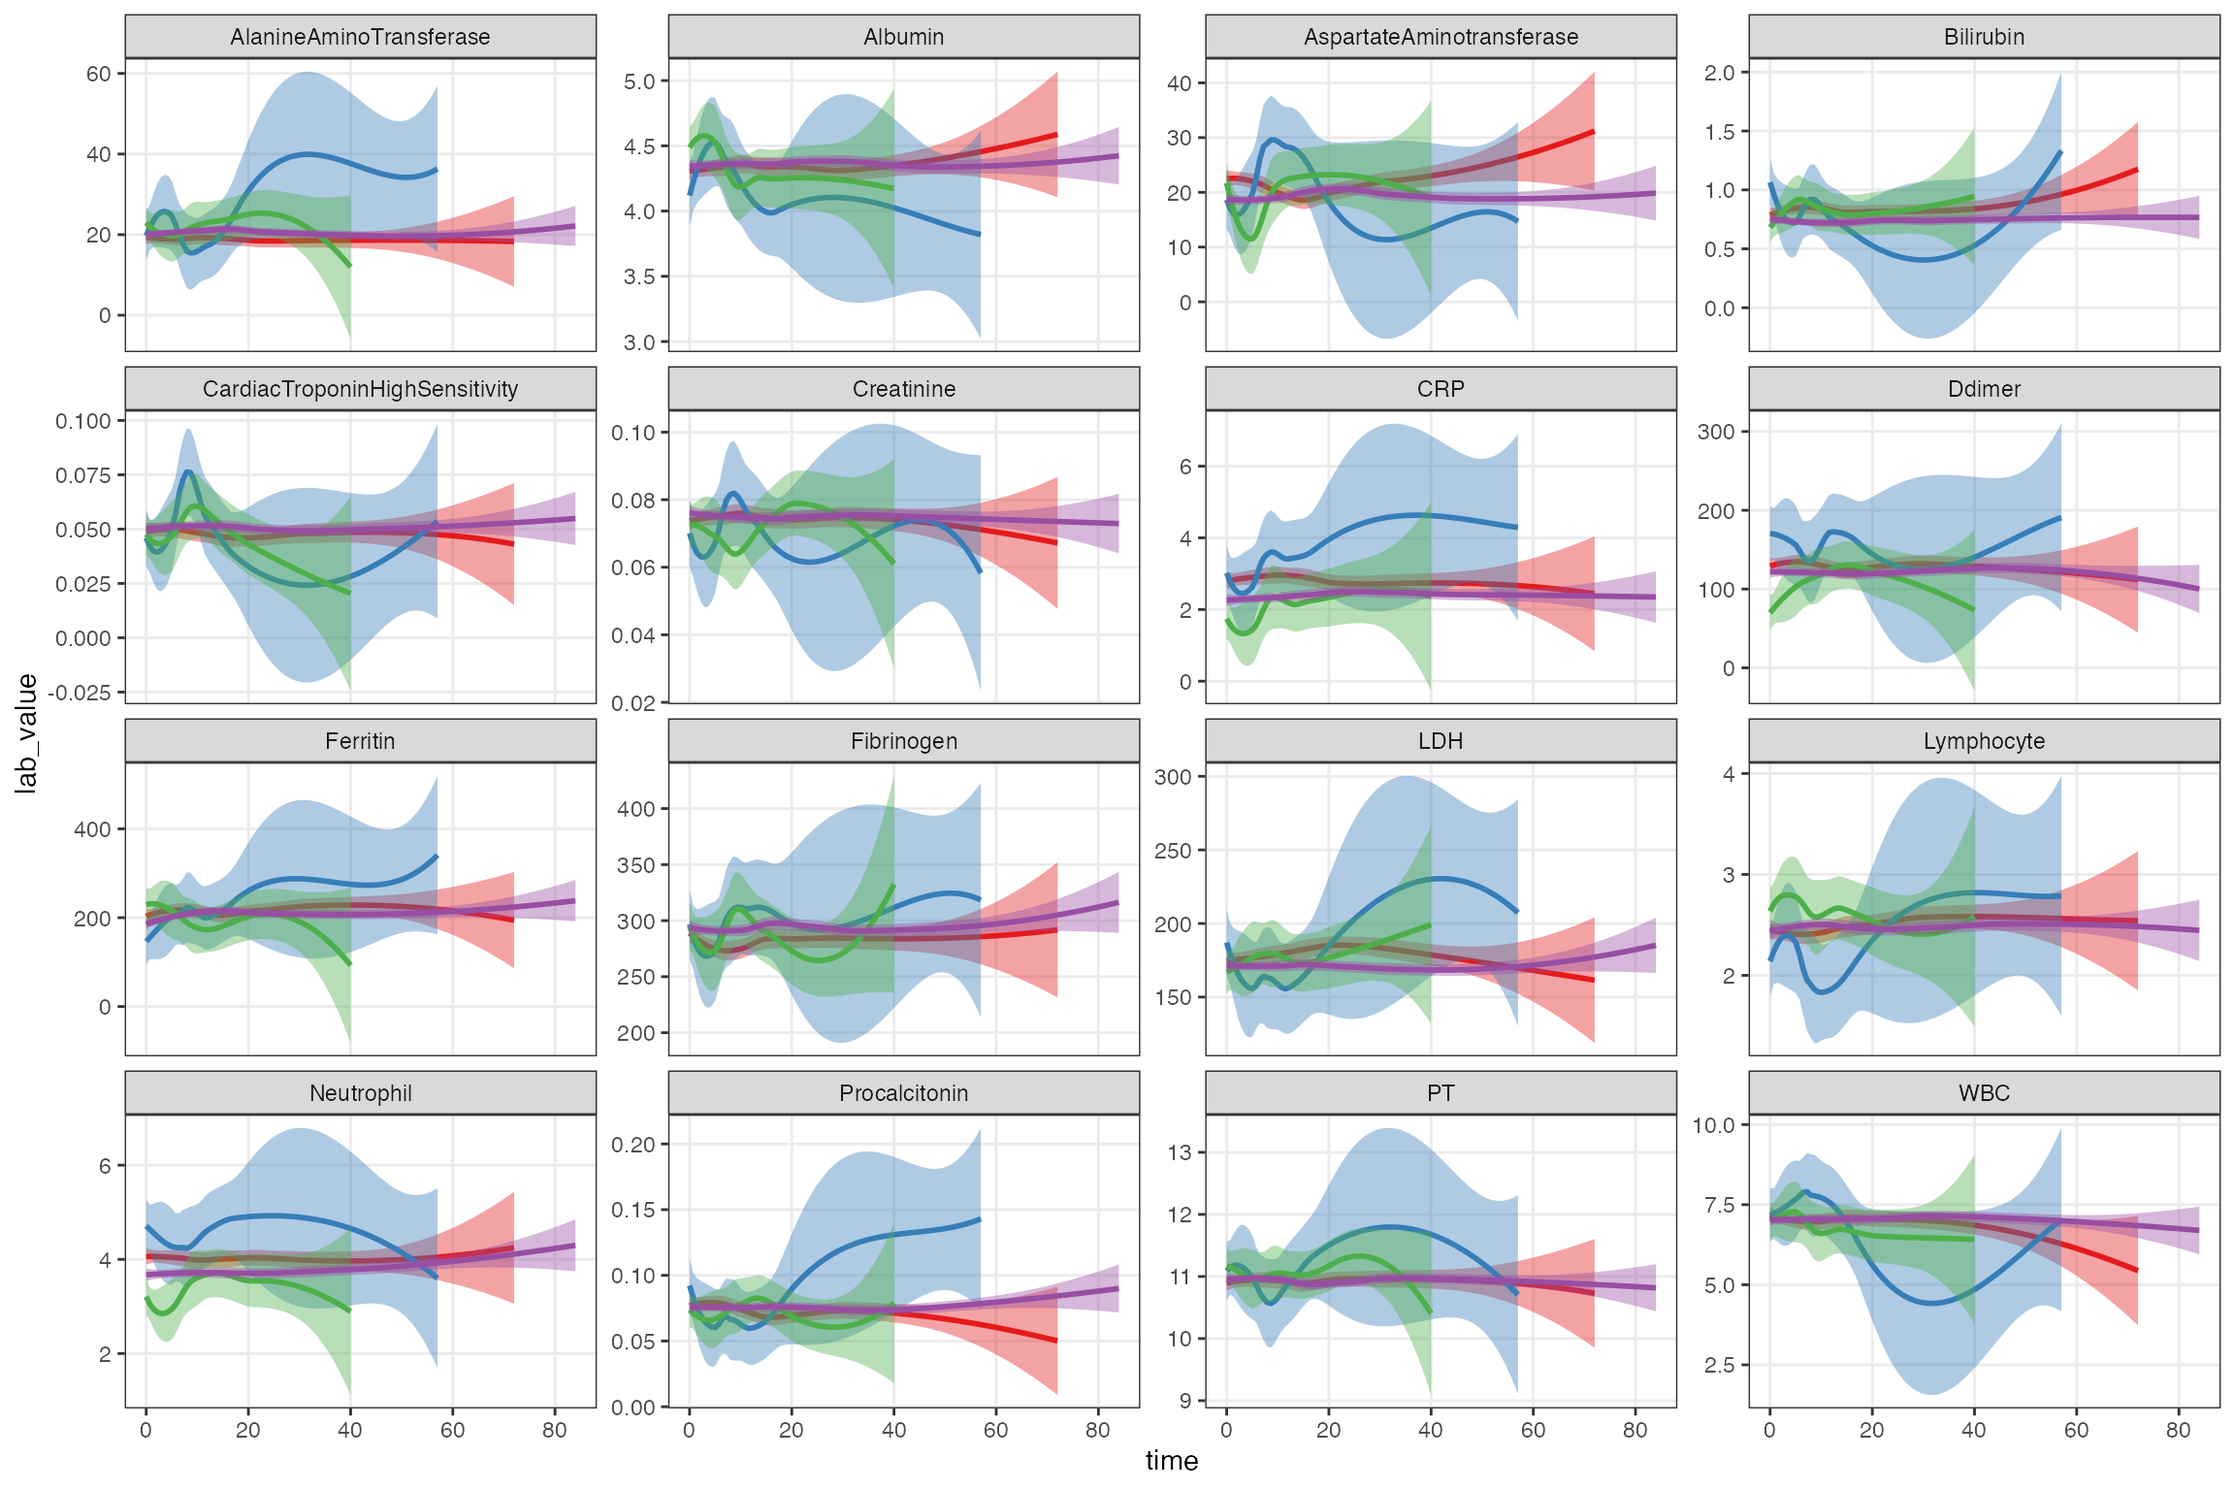
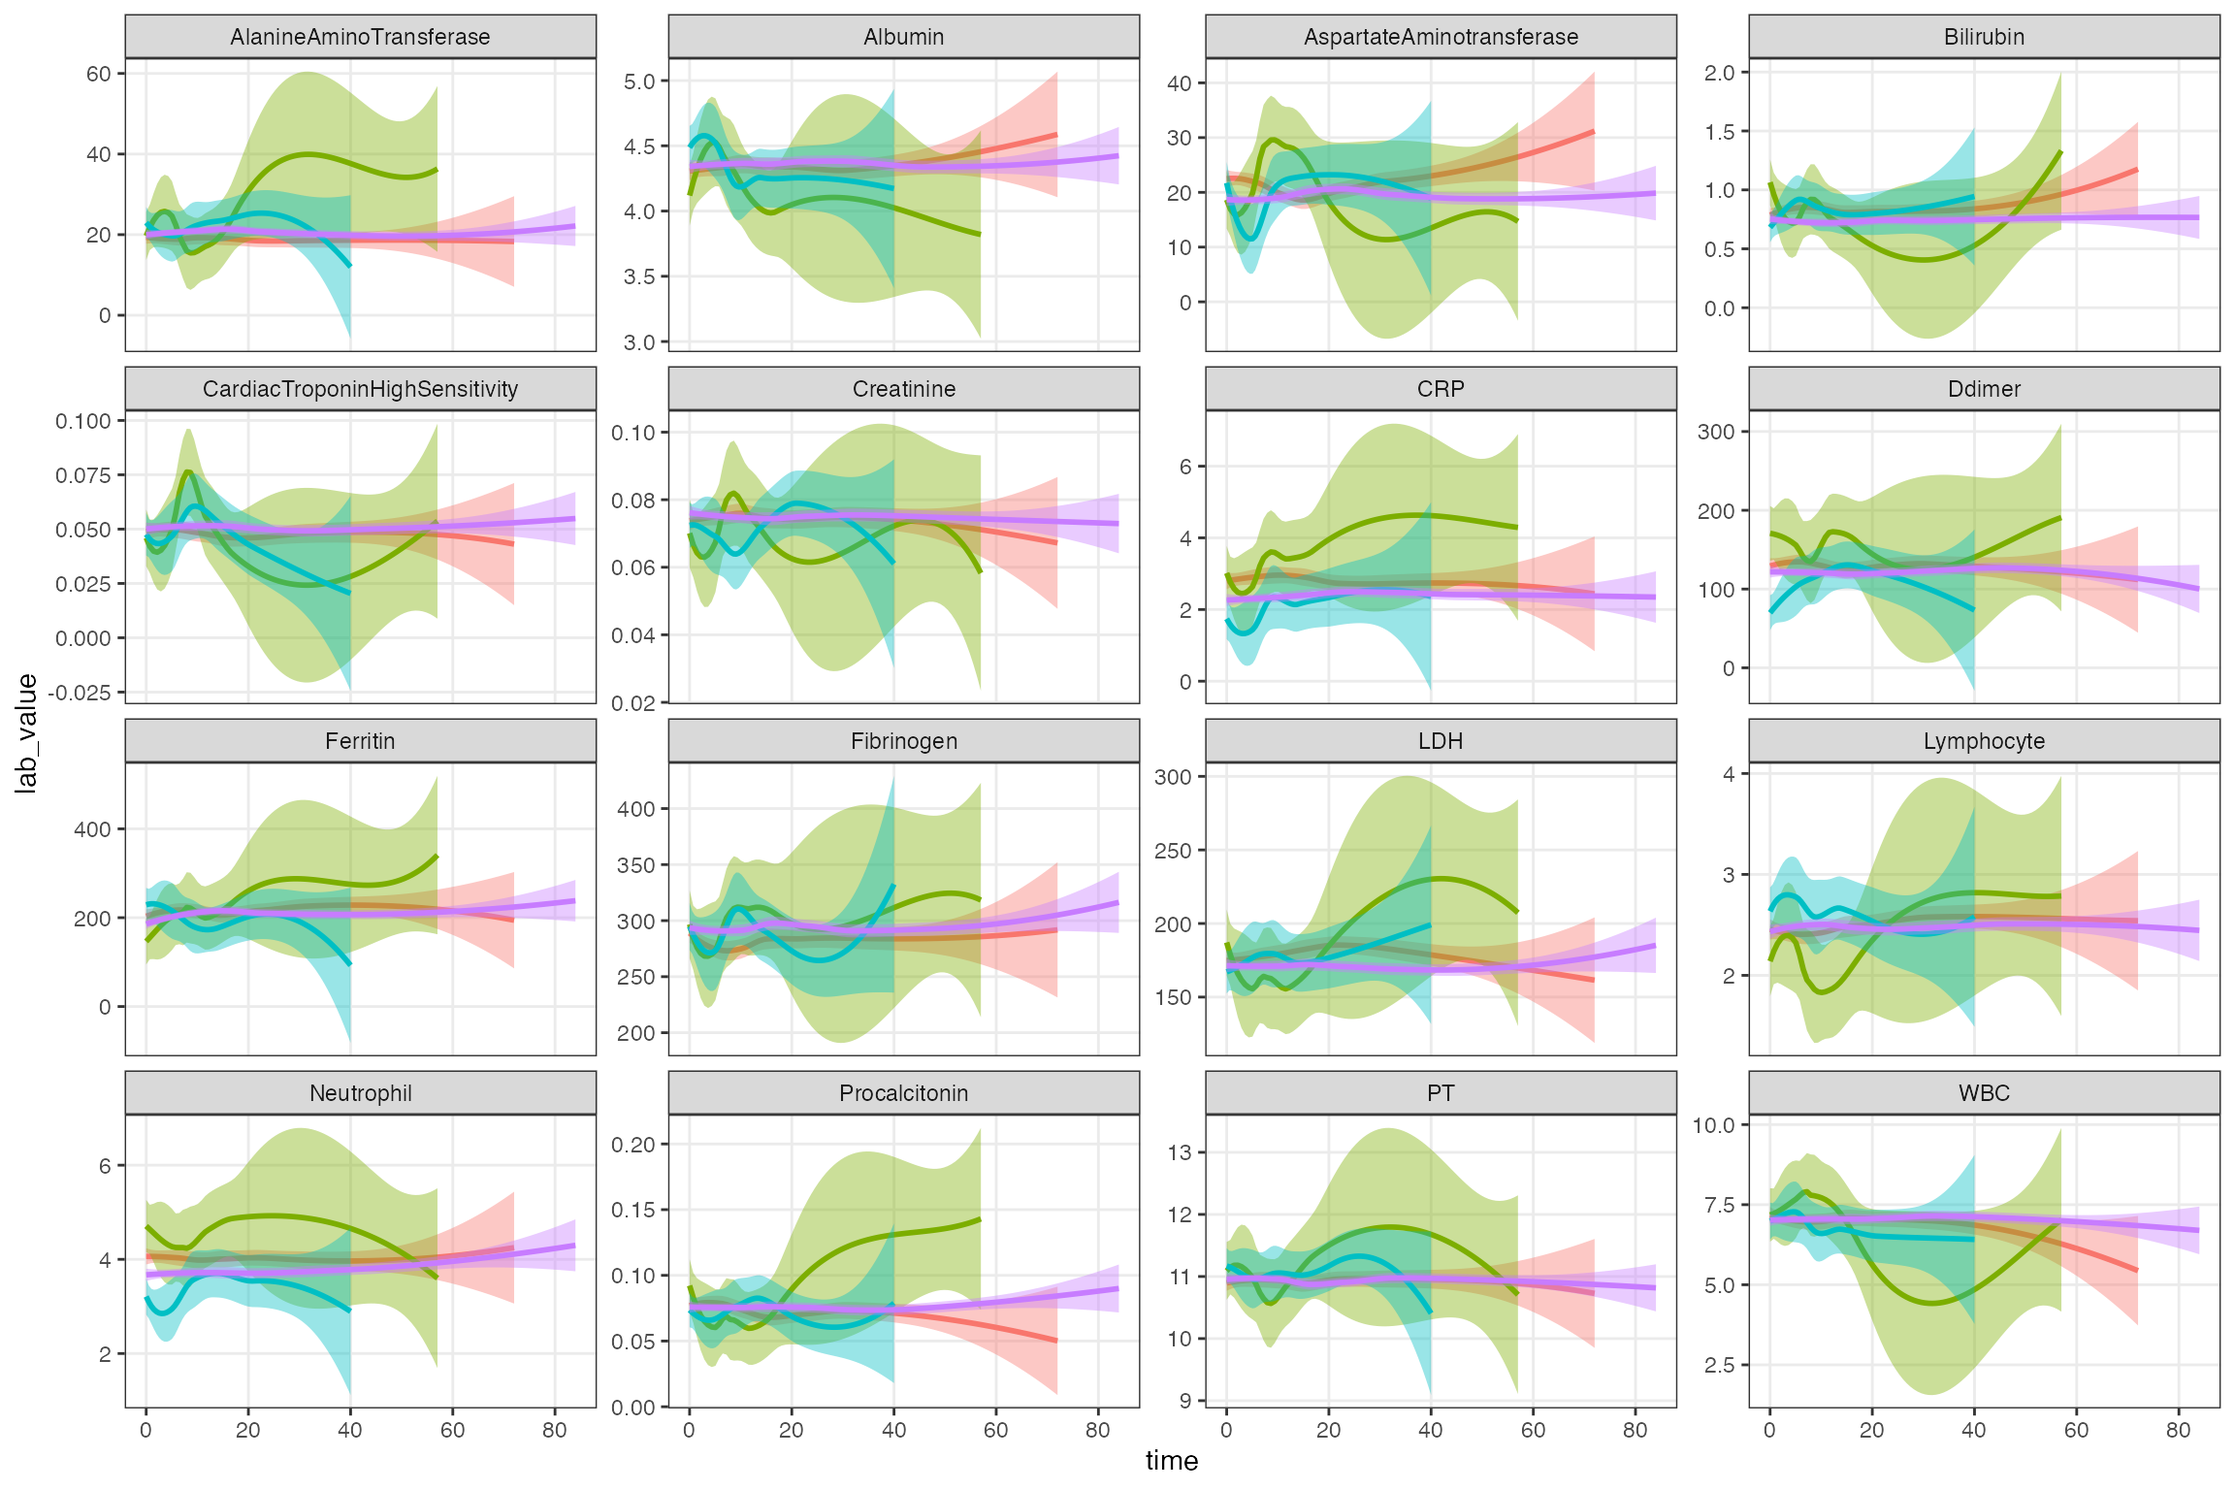
Built site for tdapseudotime: 0.1.0@fbd391a

diff --git a/articles/train.html b/articles/train.html
@@ -259,25 +259,11 @@
 <pre><code>## 
 ##     1&gt;2       2   3&gt;4&gt;2 4&gt;3&gt;4&gt;2 
 ##     184      17      36     311</code></pre>
-<div class="sourceCode" id="cb16"><pre class="downlit">
-<span class="va">check</span> <span class="op">=</span> <span class="va">data_out</span> <span class="op">%&gt;%</span> 
-  <span class="fu"><a href="https://dplyr.tidyverse.org/reference/filter.html">filter</a></span><span class="op">(</span><span class="va">clusterTraj</span> <span class="op">==</span> <span class="st">'3&gt;4&gt;2'</span><span class="op">)</span> <span class="op">%&gt;%</span> 
-  <span class="fu"><a href="https://dplyr.tidyverse.org/reference/pull.html">pull</a></span><span class="op">(</span><span class="va">covid_id</span><span class="op">)</span>
-
-<span class="va">check2</span> <span class="op">=</span> <span class="va">processed_data</span> <span class="op">%&gt;%</span> 
-<span class="fu"><a href="https://dplyr.tidyverse.org/reference/filter.html">filter</a></span><span class="op">(</span><span class="va">covid_id</span> <span class="op">%in%</span> <span class="va">check</span><span class="op">)</span> <span class="op">%&gt;%</span> 
-<span class="fu"><a href="https://dplyr.tidyverse.org/reference/count.html">count</a></span><span class="op">(</span><span class="va">covid_id</span><span class="op">)</span> <span class="op">%&gt;%</span> 
-<span class="fu"><a href="https://dplyr.tidyverse.org/reference/pull.html">pull</a></span><span class="op">(</span><span class="va">n</span><span class="op">)</span>
-
-<span class="fu"><a href="https://rdrr.io/r/base/table.html">table</a></span><span class="op">(</span><span class="va">check2</span><span class="op">)</span></pre></div>
-<pre><code>## check2
-##  1  2  3  4  5  6 
-## 10 10  9  4  2  1</code></pre>
 </div>
 <div id="visualizations" class="section level2">
 <h2 class="hasAnchor">
 <a href="#visualizations" class="anchor"></a>Visualizations</h2>
-<div class="sourceCode" id="cb18"><pre class="downlit">
+<div class="sourceCode" id="cb16"><pre class="downlit">
 <span class="va">plot_dat</span> <span class="op">&lt;-</span> <span class="va">processed_data</span> <span class="op">%&gt;%</span> 
   <span class="fu"><a href="https://dplyr.tidyverse.org/reference/mutate-joins.html">left_join</a></span><span class="op">(</span><span class="va">id_node_cluster</span> <span class="op">%&gt;%</span> <span class="fu"><a href="https://dplyr.tidyverse.org/reference/distinct.html">distinct</a></span><span class="op">(</span><span class="va">covid_id</span>, <span class="va">id</span>, <span class="va">cluster</span><span class="op">)</span>, 
             by <span class="op">=</span> <span class="fu"><a href="https://rdrr.io/r/base/c.html">c</a></span><span class="op">(</span><span class="st">'id'</span>, <span class="st">'covid_id'</span><span class="op">)</span><span class="op">)</span>
@@ -290,7 +276,7 @@
   <span class="fu"><a href="https://ggplot2.tidyverse.org/reference/theme.html">theme</a></span><span class="op">(</span>legend.position <span class="op">=</span> <span class="st">"none"</span>,
         plot.title <span class="op">=</span> <span class="fu"><a href="https://ggplot2.tidyverse.org/reference/element.html">element_text</a></span><span class="op">(</span>size <span class="op">=</span> <span class="fl">8</span>, hjust <span class="op">=</span> <span class="fl">0.5</span><span class="op">)</span><span class="op">)</span></pre></div>
 <p><img src="train_files/figure-html/unnamed-chunk-11-1.png" width="700"></p>
-<div class="sourceCode" id="cb19"><pre class="downlit">
+<div class="sourceCode" id="cb17"><pre class="downlit">
 <span class="va">plot_dat</span> <span class="op">%&gt;%</span> 
   <span class="fu"><a href="https://dplyr.tidyverse.org/reference/select.html">select</a></span><span class="op">(</span><span class="va">cluster</span>, <span class="fu"><a href="https://tidyselect.r-lib.org/reference/all_of.html">all_of</a></span><span class="op">(</span><span class="va">lab_value_names</span><span class="op">)</span><span class="op">)</span> <span class="op">%&gt;%</span> 
   <span class="fu"><a href="https://tidyr.tidyverse.org/reference/pivot_longer.html">pivot_longer</a></span><span class="op">(</span><span class="op">-</span> <span class="va">cluster</span>, names_to <span class="op">=</span> <span class="st">'Lab'</span>, values_to <span class="op">=</span> <span class="st">'lab_value'</span><span class="op">)</span> <span class="op">%&gt;%</span> 
@@ -302,20 +288,18 @@
   <span class="fu"><a href="https://ggplot2.tidyverse.org/reference/theme.html">theme</a></span><span class="op">(</span>legend.position <span class="op">=</span> <span class="st">"none"</span><span class="op">)</span> <span class="op">+</span>
   <span class="fu"><a href="https://ggplot2.tidyverse.org/reference/facet_wrap.html">facet_wrap</a></span><span class="op">(</span><span class="op">~</span> <span class="va">Lab</span>, scales <span class="op">=</span> <span class="st">'free_y'</span><span class="op">)</span></pre></div>
 <p><img src="train_files/figure-html/unnamed-chunk-11-2.png" width="700"></p>
-<div class="sourceCode" id="cb20"><pre class="downlit">
+<div class="sourceCode" id="cb18"><pre class="downlit">
 <span class="va">processed_data_traj</span> <span class="op">&lt;-</span> <span class="va">processed_data</span> <span class="op">%&gt;%</span> 
   <span class="fu"><a href="https://dplyr.tidyverse.org/reference/mutate-joins.html">left_join</a></span><span class="op">(</span><span class="va">most_similar_traj</span>, by <span class="op">=</span> <span class="fu"><a href="https://rdrr.io/r/base/c.html">c</a></span><span class="op">(</span><span class="st">"covid_id"</span><span class="op">)</span><span class="op">)</span> <span class="op">%&gt;%</span> 
   <span class="fu"><a href="https://dplyr.tidyverse.org/reference/mutate.html">mutate</a></span><span class="op">(</span>clusterTraj <span class="op">=</span> <span class="fu"><a href="https://rdrr.io/r/base/factor.html">as.factor</a></span><span class="op">(</span><span class="va">clusterTraj</span><span class="op">)</span>, <span class="va">time</span><span class="op">)</span> <span class="op">%&gt;%</span>
   <span class="fu"><a href="https://dplyr.tidyverse.org/reference/select.html">select</a></span><span class="op">(</span><span class="va">time</span>, <span class="va">clusterTraj</span>, <span class="fu"><a href="https://tidyselect.r-lib.org/reference/all_of.html">all_of</a></span><span class="op">(</span><span class="va">lab_value_names</span><span class="op">)</span><span class="op">)</span> <span class="op">%&gt;%</span> 
   <span class="fu"><a href="https://dplyr.tidyverse.org/reference/distinct.html">distinct</a></span><span class="op">(</span><span class="op">)</span></pre></div>
-<div class="sourceCode" id="cb21"><pre class="downlit">
+<div class="sourceCode" id="cb19"><pre class="downlit">
 <span class="va">processed_data_traj</span>  <span class="op">%&gt;%</span> 
   <span class="fu"><a href="https://tidyr.tidyverse.org/reference/pivot_longer.html">pivot_longer</a></span><span class="op">(</span><span class="op">-</span> <span class="fu"><a href="https://rdrr.io/r/base/c.html">c</a></span><span class="op">(</span><span class="va">time</span>, <span class="va">clusterTraj</span><span class="op">)</span>, 
                names_to <span class="op">=</span> <span class="st">'Lab'</span>, values_to <span class="op">=</span> <span class="st">'lab_value'</span><span class="op">)</span> <span class="op">%&gt;%</span> 
   <span class="fu"><a href="https://ggplot2.tidyverse.org/reference/ggplot.html">ggplot</a></span><span class="op">(</span><span class="fu"><a href="https://ggplot2.tidyverse.org/reference/aes.html">aes</a></span><span class="op">(</span><span class="va">time</span>, <span class="va">lab_value</span>, colour <span class="op">=</span> <span class="va">clusterTraj</span>, 
              group <span class="op">=</span> <span class="va">clusterTraj</span>, fill <span class="op">=</span> <span class="va">clusterTraj</span><span class="op">)</span><span class="op">)</span> <span class="op">+</span>
-  <span class="fu"><a href="https://ggplot2.tidyverse.org/reference/scale_manual.html">scale_fill_manual</a></span><span class="op">(</span>values <span class="op">=</span> <span class="va">f_graph</span><span class="op">$</span><span class="va">pal</span><span class="op">$</span><span class="va">color</span><span class="op">)</span> <span class="op">+</span> 
-  <span class="fu"><a href="https://ggplot2.tidyverse.org/reference/scale_manual.html">scale_color_manual</a></span><span class="op">(</span>values <span class="op">=</span> <span class="va">f_graph</span><span class="op">$</span><span class="va">pal</span><span class="op">$</span><span class="va">color</span><span class="op">)</span> <span class="op">+</span> 
   <span class="fu"><a href="https://ggplot2.tidyverse.org/reference/geom_smooth.html">geom_smooth</a></span><span class="op">(</span>method <span class="op">=</span> <span class="st">"loess"</span><span class="op">)</span> <span class="op">+</span>
   <span class="fu"><a href="https://ggplot2.tidyverse.org/reference/theme.html">theme</a></span><span class="op">(</span>legend.position <span class="op">=</span> <span class="st">"none"</span><span class="op">)</span> <span class="op">+</span>
   <span class="fu"><a href="https://ggplot2.tidyverse.org/reference/facet_wrap.html">facet_wrap</a></span><span class="op">(</span><span class="op">~</span> <span class="va">Lab</span>, scales <span class="op">=</span> <span class="st">'free_y'</span><span class="op">)</span></pre></div>

diff --git a/articles/test.html b/articles/test.html
@@ -238,8 +238,6 @@
                names_to <span class="op">=</span> <span class="st">'Lab'</span>, values_to <span class="op">=</span> <span class="st">'lab_value'</span><span class="op">)</span> <span class="op">%&gt;%</span> 
   <span class="fu"><a href="https://ggplot2.tidyverse.org/reference/ggplot.html">ggplot</a></span><span class="op">(</span><span class="fu"><a href="https://ggplot2.tidyverse.org/reference/aes.html">aes</a></span><span class="op">(</span><span class="va">time</span>, <span class="va">lab_value</span>, colour <span class="op">=</span> <span class="va">clusterTraj</span>, 
              group <span class="op">=</span> <span class="va">clusterTraj</span>, fill <span class="op">=</span> <span class="va">clusterTraj</span><span class="op">)</span><span class="op">)</span> <span class="op">+</span>
-  <span class="fu"><a href="https://ggplot2.tidyverse.org/reference/scale_manual.html">scale_fill_manual</a></span><span class="op">(</span>values <span class="op">=</span> <span class="va">clust_colors</span><span class="op">)</span> <span class="op">+</span> 
-  <span class="fu"><a href="https://ggplot2.tidyverse.org/reference/scale_manual.html">scale_color_manual</a></span><span class="op">(</span>values <span class="op">=</span> <span class="va">clust_colors</span><span class="op">)</span> <span class="op">+</span> 
   <span class="fu"><a href="https://ggplot2.tidyverse.org/reference/geom_smooth.html">geom_smooth</a></span><span class="op">(</span>method <span class="op">=</span> <span class="st">"loess"</span><span class="op">)</span> <span class="op">+</span>
   <span class="fu"><a href="https://ggplot2.tidyverse.org/reference/theme.html">theme</a></span><span class="op">(</span>legend.position <span class="op">=</span> <span class="st">"none"</span><span class="op">)</span> <span class="op">+</span>
   <span class="fu"><a href="https://ggplot2.tidyverse.org/reference/facet_wrap.html">facet_wrap</a></span><span class="op">(</span><span class="op">~</span> <span class="va">Lab</span>, scales <span class="op">=</span> <span class="st">'free_y'</span><span class="op">)</span></pre></div>

diff --git a/reference/make_tda_graph.html b/reference/make_tda_graph.html
@@ -179,10 +179,10 @@ color palette for enrichment.</p></td>
     <h2 class="hasAnchor" id="examples"><a class="anchor" href="#examples"></a>Examples</h2>
     <pre class="examples"><div class='input'><span class='va'>my_tda</span> <span class='op'>&lt;-</span> <span class='fu'><a href='map_tda.html'>map_tda</a></span><span class='op'>(</span><span class='va'>scaled_lab_mat</span><span class='op'>)</span>
 <span class='fu'>make_tda_graph</span><span class='op'>(</span><span class='va'>my_tda</span>, <span class='va'>sim_dat</span>, <span class='st'>'time'</span><span class='op'>)</span>
-</div><div class='img'><img src='make_tda_graph-1.png' alt='' width='700' height='433' /></div><div class='output co'>#&gt; IGRAPH 3e899f5 U-W- 26 41 -- 
+</div><div class='img'><img src='make_tda_graph-1.png' alt='' width='700' height='433' /></div><div class='output co'>#&gt; IGRAPH 8dc6f46 U-W- 26 41 -- 
 #&gt; + attr: node_color (g/x), clusters (g/x), pal (g/x), size (v/n), color
 #&gt; | (v/c), weight (e/n)
-#&gt; + edges from 3e899f5:
+#&gt; + edges from 8dc6f46:
 #&gt;  [1]  1-- 2  1-- 6  2-- 3  2-- 7  3-- 4  3-- 8  4-- 5  4-- 9  5--10  6-- 7
 #&gt; [11]  6--11  7-- 8  7--12  8-- 9  8--13  9--10  9--14 10--15 11--12 11--16
 #&gt; [21] 12--13 12--17 13--14 13--18 14--15 14--19 15--20 16--17 16--21 17--18

diff --git a/reference/find_trajectories.html b/reference/find_trajectories.html
@@ -166,7 +166,7 @@ All the trajectory or choose the nodes.</p>
 </div><div class='img'><img src='find_trajectories-2.png' alt='' width='700' height='433' /></div><div class='input'><span class='fu'><a href='https://rdrr.io/r/utils/head.html'>head</a></span><span class='op'>(</span><span class='va'>my_trajs</span><span class='op'>[[</span><span class='fl'>1</span><span class='op'>]</span><span class='op'>]</span><span class='op'>)</span>
 </div><div class='output co'>#&gt; $res
 #&gt; $res[[1]]
-#&gt; + 8/26 vertices, from 19b701c:
+#&gt; + 8/26 vertices, from d26ac55:
 #&gt; [1]  2  1  6 11 16 17 22 23
 #&gt; 
 #&gt; 
@@ -175,7 +175,7 @@ All the trajectory or choose the nodes.</p>
 #&gt; </div><div class='input'><span class='fu'><a href='https://rdrr.io/r/utils/head.html'>head</a></span><span class='op'>(</span><span class='va'>my_trajs</span><span class='op'>[[</span><span class='fl'>2</span><span class='op'>]</span><span class='op'>]</span><span class='op'>)</span>
 </div><div class='output co'>#&gt; $res
 #&gt; $res[[1]]
-#&gt; + 9/26 vertices, from 19b701c:
+#&gt; + 9/26 vertices, from d26ac55:
 #&gt; [1]  3  8  9 10 15 14 19 24 23
 #&gt; 
 #&gt; 
